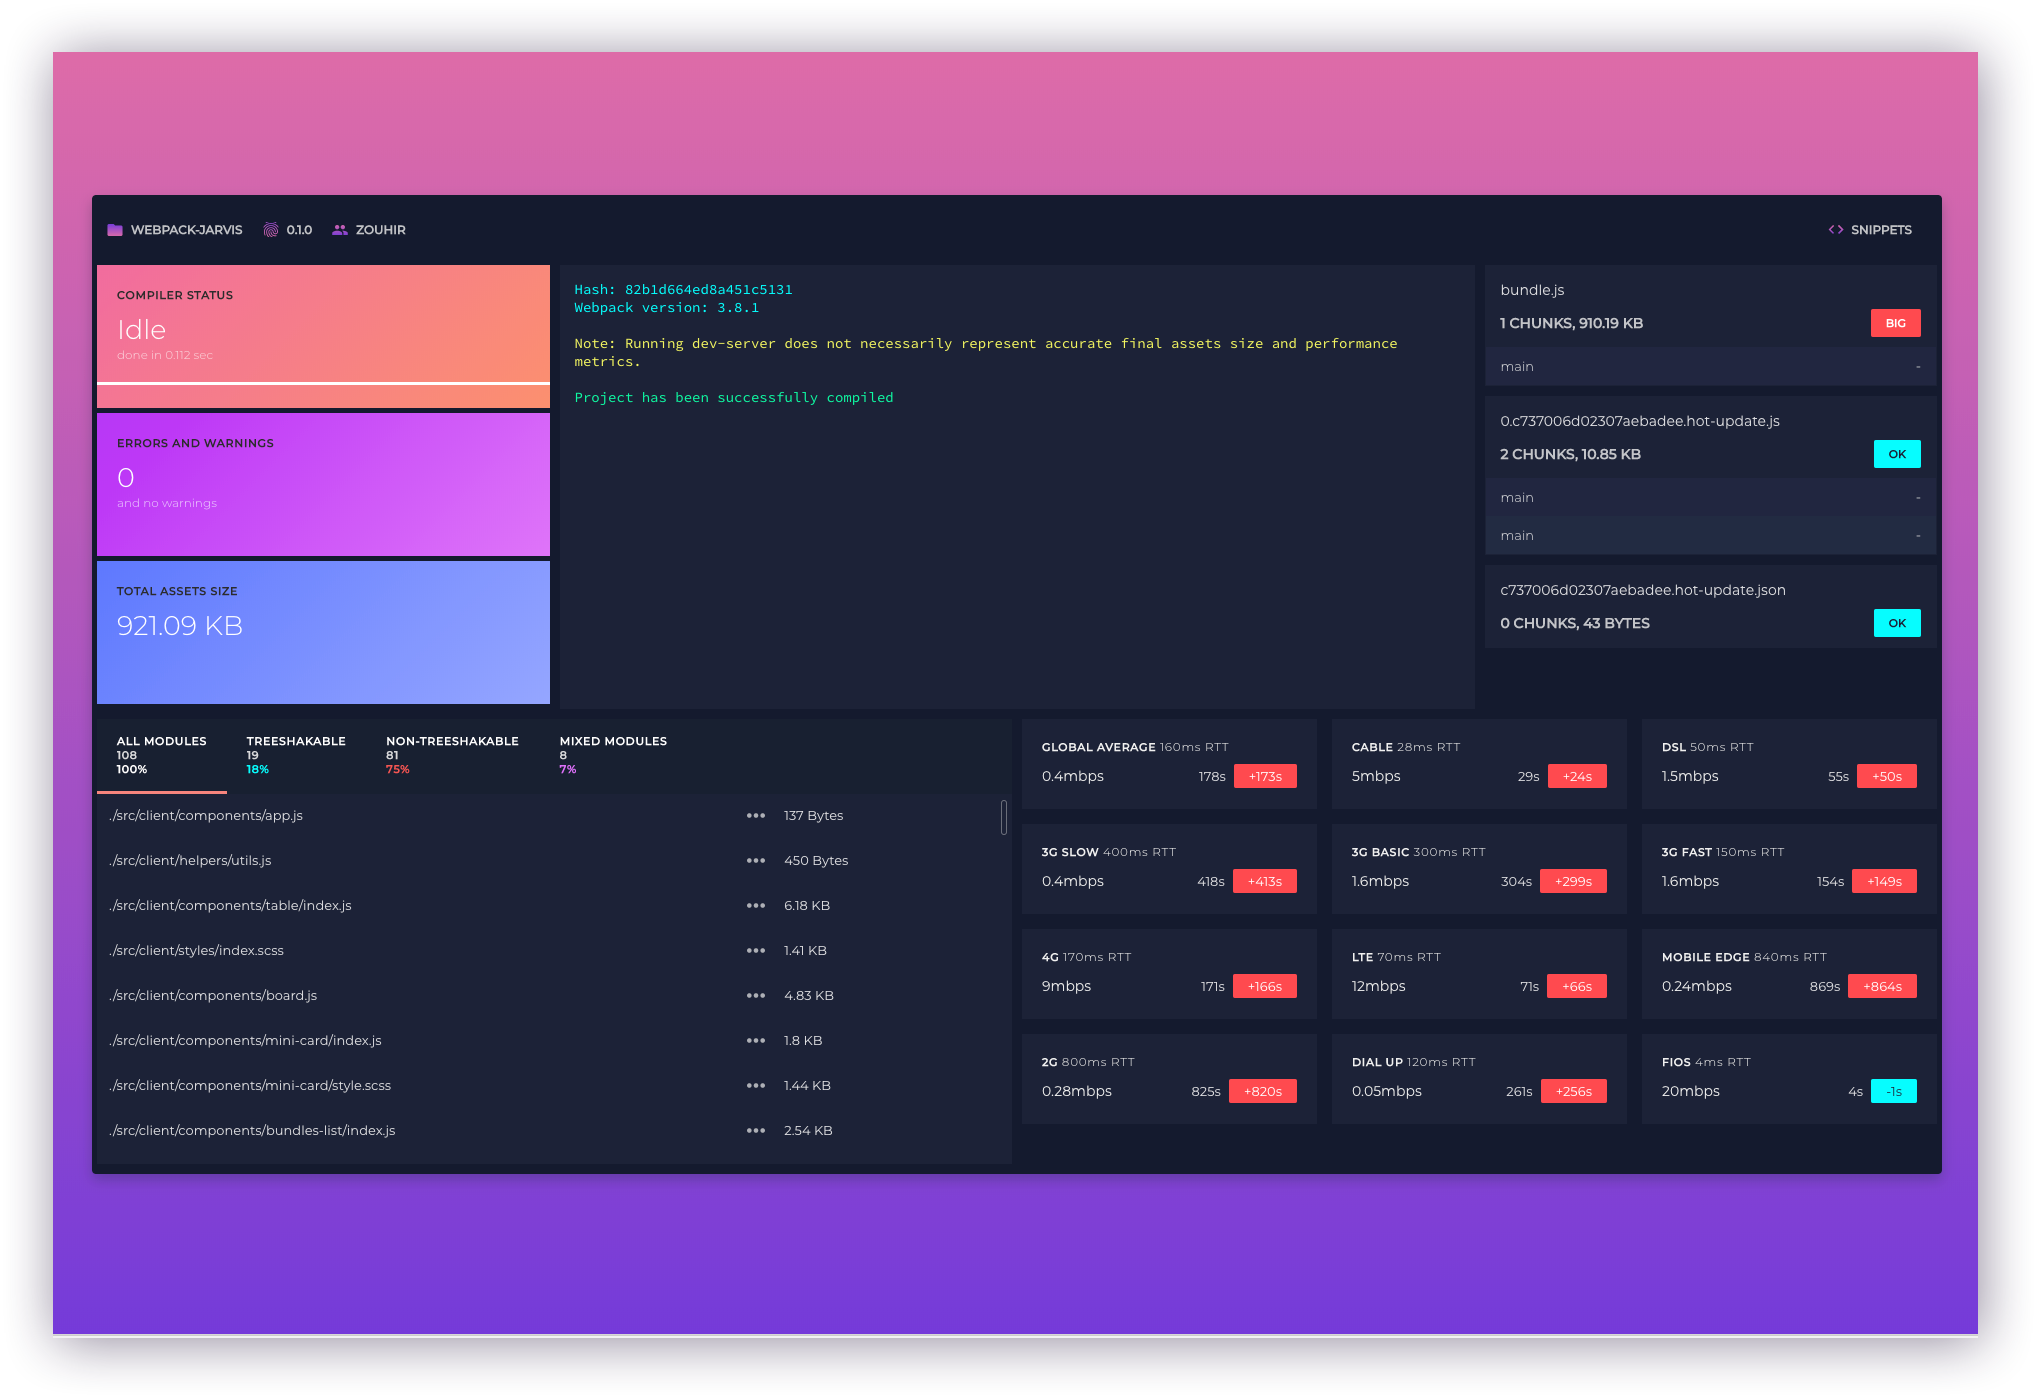
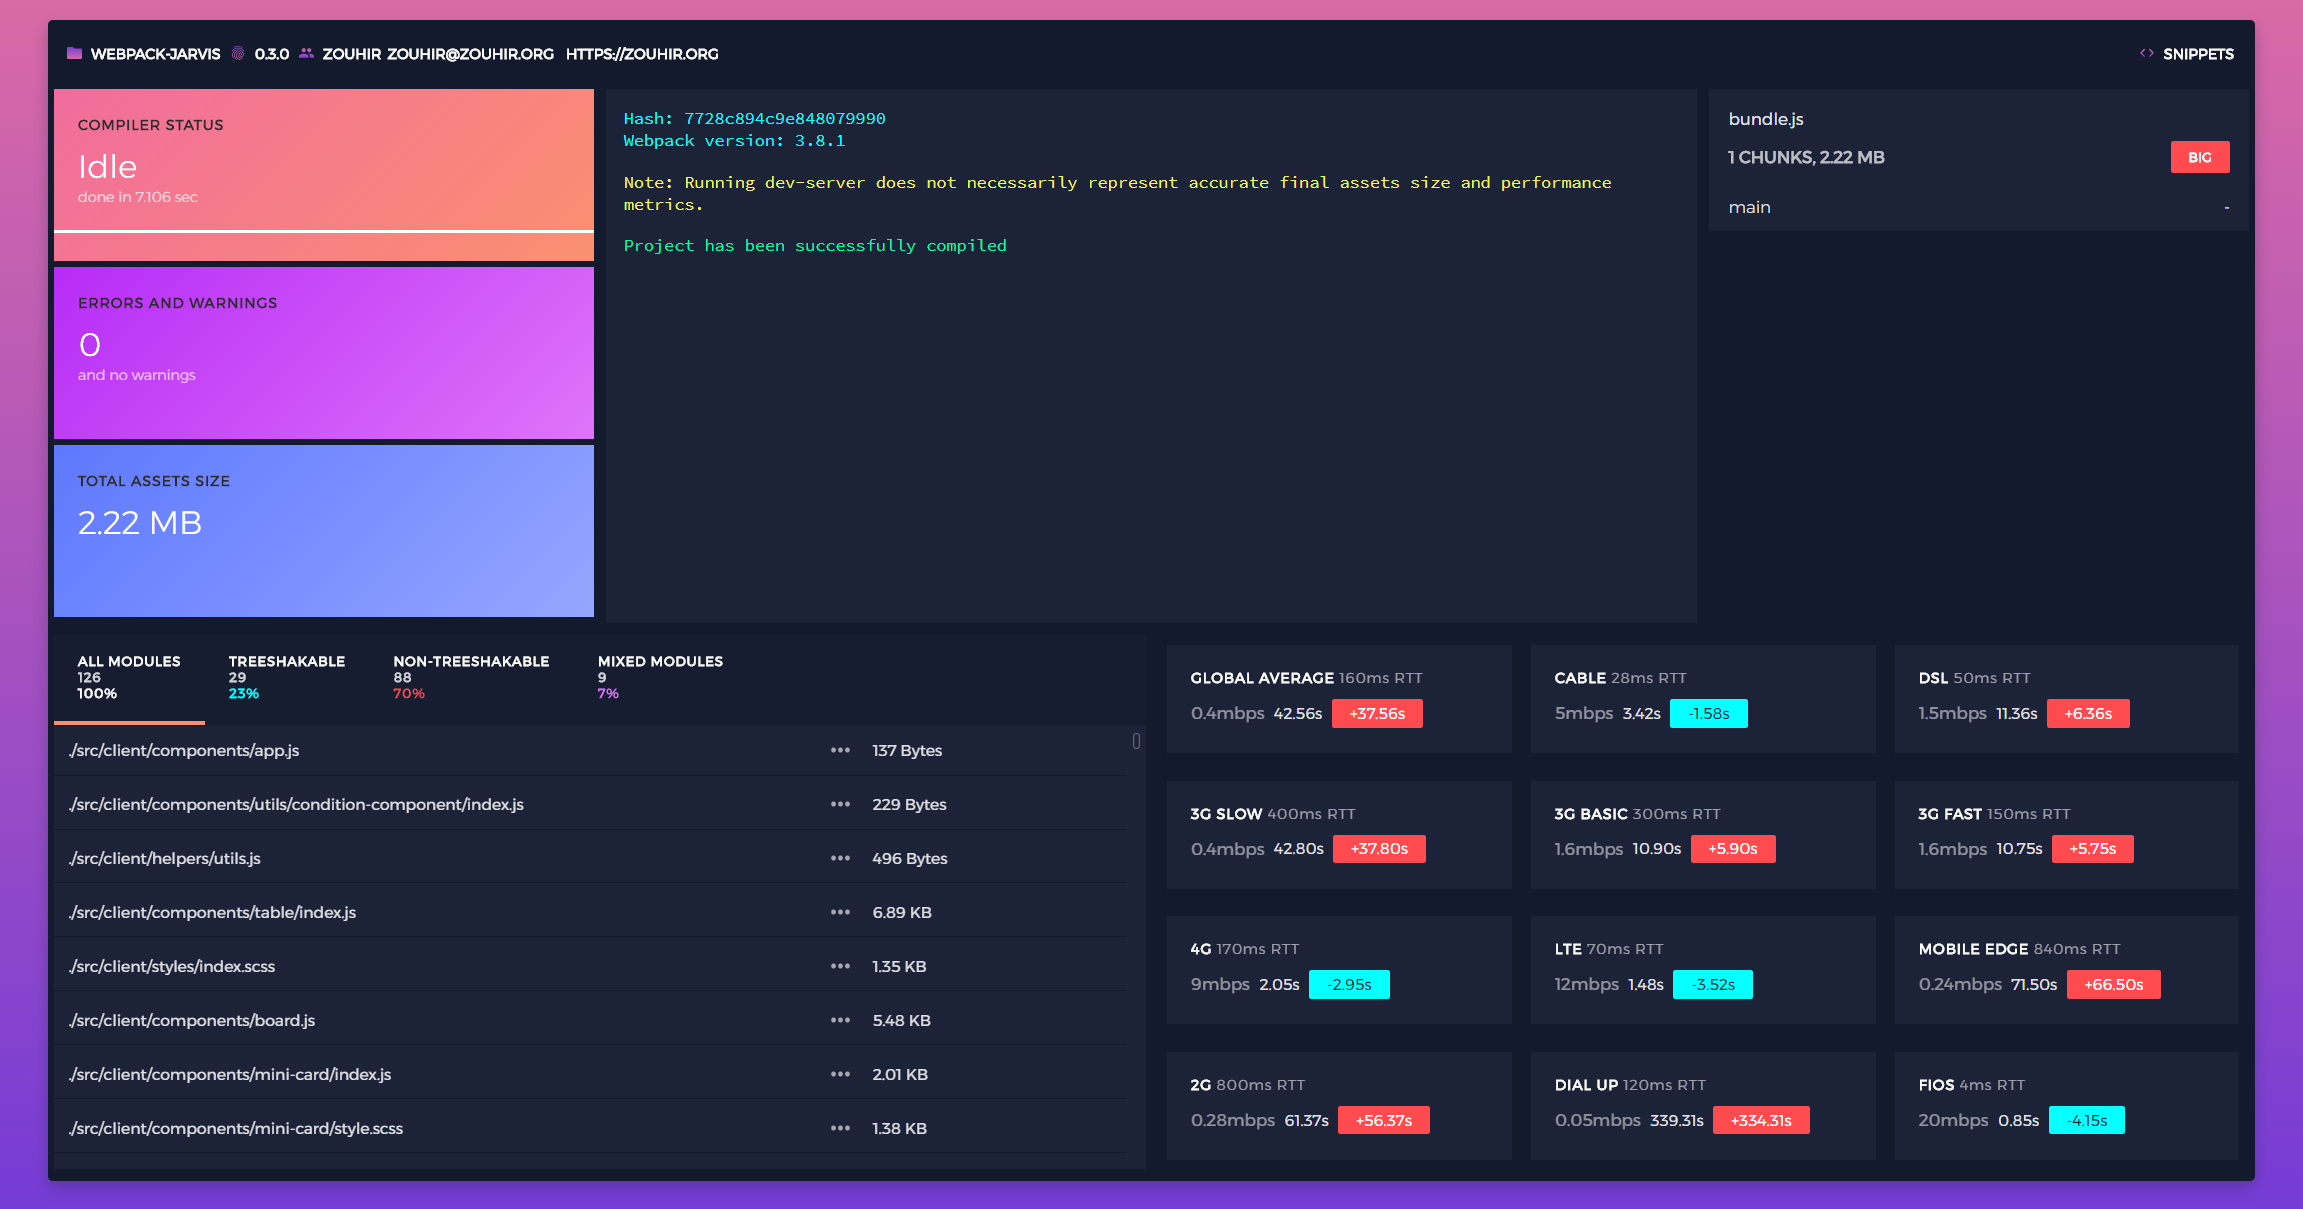
Update readme screenshot
Add code highlighting to dev setup guide

diff --git a/README.md b/README.md
@@ -28,7 +28,7 @@ It is hugely inspired by other webpack dashboards and the core idea is not origi
 
 * Shows you the count of ES Harmony module imports which can be treeshakable and the CJS ones which are not.
 * Shows you how well your assets perform in 12 different connection types.
-* Google or Stackoverflow Search for programming errors in 1 button click.
+* Google or StackOverflow search for programming errors in 1 button click.
 
 **Other Features**:
 
@@ -41,7 +41,7 @@ It is hugely inspired by other webpack dashboards and the core idea is not origi
 
 * Preact with Sass pre-processor.
 * Socket IO.
-* Express Server.
+* Polka Web Server.
 
 **Screenshot:**
 
@@ -79,27 +79,20 @@ and you are all set!
 
 ## Help & Contribute
 
-Setting up the dev environment
+### Setting up the Dev Environment
 
-##### Insall Dependencies:
 
-Node and Plugin dependencies:
-
-```
+```bash
+# Install Webpack plugin dependencies (in Jarvis root)
 $ npm install
-```
 
-Client app depencencies:
-
-```
+# Install client app depencencies (in client sub-directory)
 $ cd src/client
 $ npm install
-```
 
-Run Jarvis in your browser, Jarvis root:
-
-```
-npm run dev
+# Run Jarvis in dev mode (in Jarvis root)
+$ cd ../..
+$ npm run dev
 ```
 
 Finally, in your browser (notice the force post option for Jarvis developers):
@@ -108,7 +101,7 @@ Finally, in your browser (notice the force post option for Jarvis developers):
 localhost:3000/?force_socket_port=1337
 ```
 
-**On the roadmap:**
+### On the roadmap
 
 * Cleanup the hacky code in the client app, it's embarassing, I'm sorry!
 * Enforce best practices, structure and higher code quality standards.
